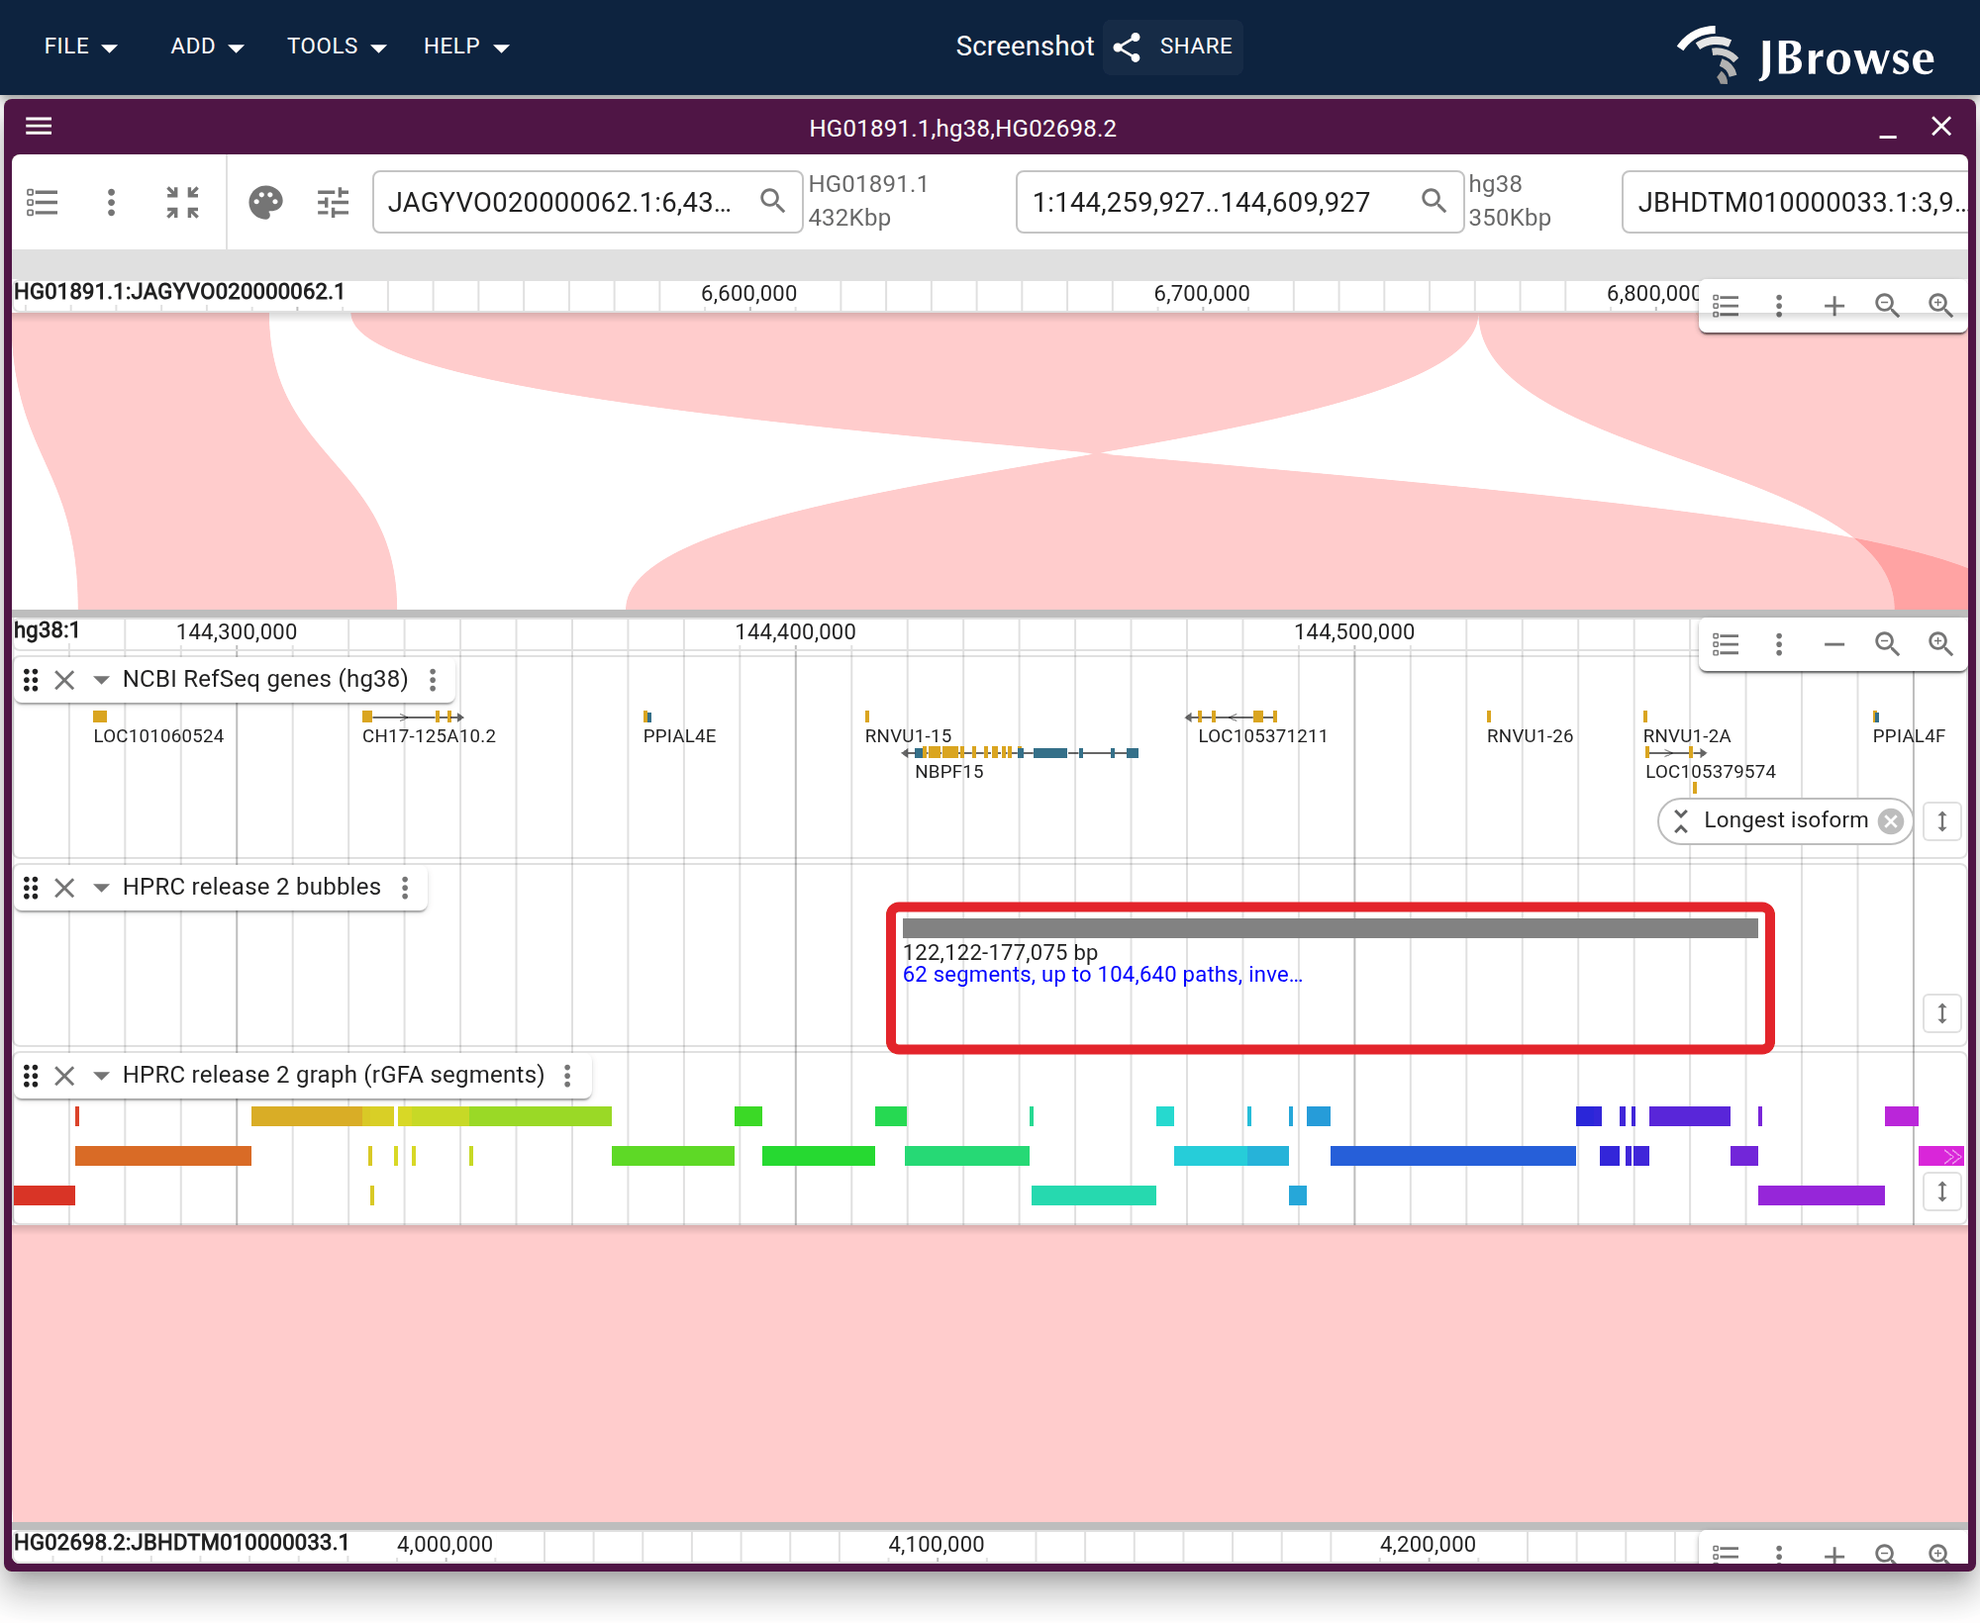
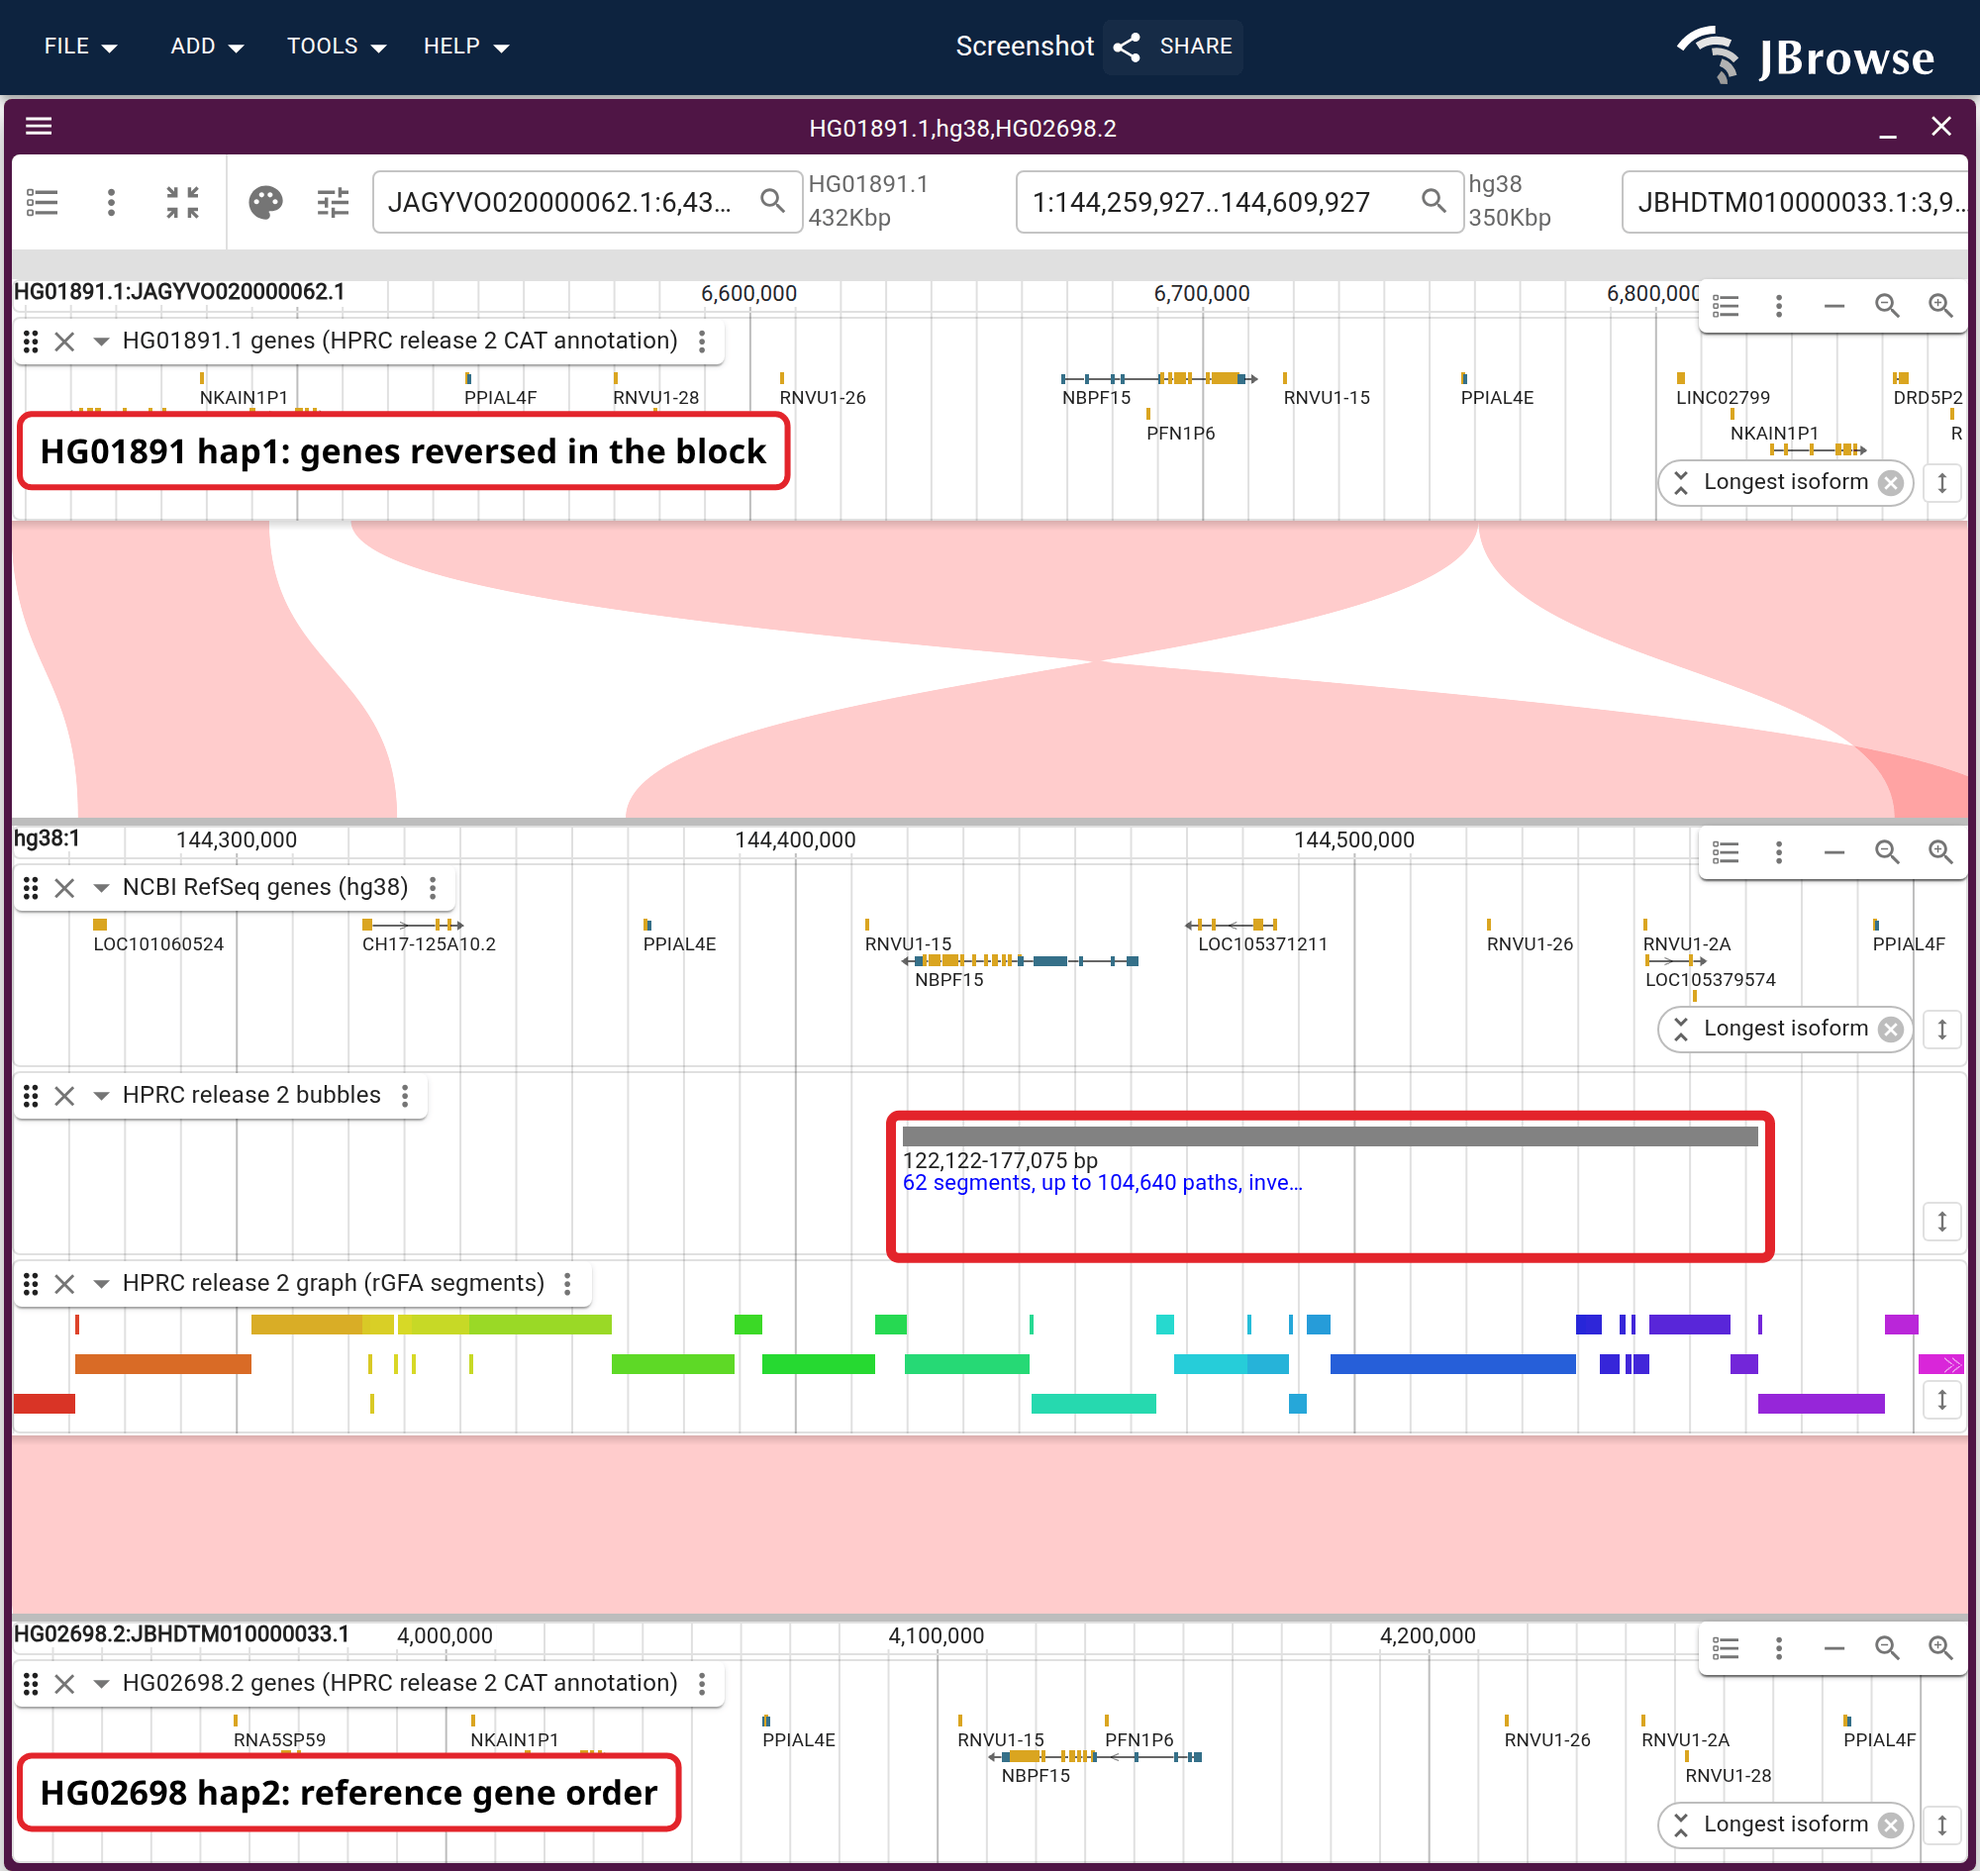
docs(hprc): give the inversion and CFHR figures their haplotype gene lanes
Both figures' third rows were flagged as boring in review ("this looks like it
matches the hg38 reference, so not interesting"). Both are the control the
figure's claim needs, and neither said so in the frame.

The inversion figure now carries each haplotype's own CAT annotation, sliced by
build_hprc_inversion_synteny.sh the way the CFHR build already did, minus the
loci CAT names by Ensembl gene id (29 of 45 here, all the same width and colour,
packing the lane three deep). Inside the flagged bubble the carrier's named
genes run PPIAL4F..PPIAL4E and the non-carrier's run the reference's order, so
the frame now separates an inversion from a contig deposited backwards — which
is the distinction the build script's flank test exists to make.

The CFHR figure keeps its non-carrier for the same reason (CFHR3/CFHR1
annotated there are what make their absence a deletion rather than a hole in one
assembly's annotation) and spends 40px less on its flat ribbon band.

Claude-Session: https://claude.ai/code/session_015YyNaRBzEzrDFgSu9gt3Yi

diff --git a/website/scripts/specs/graph.ts b/website/scripts/specs/graph.ts
@@ -548,6 +548,17 @@ const INV_CARRIER = 'HG01891.1'
 const INV_CARRIER_TRACK = 'hprc_inv_synteny_HG01891_1'
 const INV_NONCARRIER = 'HG02698.2'
 const INV_NONCARRIER_TRACK = 'hprc_inv_synteny_HG02698_2'
+// Each haplotype's own CAT annotation, which is what makes the non-carrier row
+// worth its height (review: "the third sample ... looks like it matches the hg38
+// reference so not interesting, can consider deleting third row"). With gene
+// lanes on both, the crossing ribbon is no longer the only thing said twice: the
+// named genes inside the block run PPIAL4F, RNVU1-28, RNVU1-2A, RNVU1-26,
+// NBPF15, RNVU1-15, PPIAL4E down the carrier and PPIAL4E, RNVU1-15, NBPF15,
+// RNVU1-26, RNVU1-2A, RNVU1-28, PPIAL4F down the non-carrier, i.e. reference
+// order on one row and reversed on the other. That is the reading a crossing
+// ribbon alone cannot separate from a contig deposited backwards.
+const INV_CARRIER_GENES = 'hprc_inv_genes_HG01891_1'
+const INV_NONCARRIER_GENES = 'hprc_inv_genes_HG02698_2'
 // Each row's own window: the span its in-frame records cover on that haplotype.
 const INV_CARRIER_WINDOW = 'JAGYVO020000062.1:6,437,000-6,868,942'
 const INV_NONCARRIER_WINDOW = 'JBHDTM010000033.1:3,912,000-4,309,991'
@@ -713,10 +724,11 @@ function hprcSegmentsLane(domain: { start: number; end: number }) {
 }
 
 // A haplotype row's own genes: HPRC's CAT annotation of that assembly, sliced to
-// the window by scripts/build_hprc_cfhr_synteny.sh. Same glyph settings as the
-// hg38 lane between them, so the three rows are read the same way and the
-// missing genes are missing rather than differently drawn.
-function cfhrGeneLane(trackId: string) {
+// the window by scripts/build_hprc_cfhr_synteny.sh and
+// scripts/build_hprc_inversion_synteny.sh. Same glyph settings as the hg38 lane
+// between them, so the three rows are read the same way and the missing genes
+// are missing rather than differently drawn.
+function haplotypeGeneLane(trackId: string) {
   return {
     trackId,
     type: 'LinearBasicDisplay',
@@ -2318,13 +2330,21 @@ export const graphSpecs: ScreenshotSpec[] = [
           // then against hg38, which is the comparison.
           tracks: [[CFHR_CARRIER_TRACK], [CFHR_NONCARRIER_TRACK]],
           drawCurves: true,
-          levelHeights: [110, 110],
+          // The carrier's band is where the event is — a ribbon that stops and
+          // resumes around the highlighted span — and the non-carrier's is one
+          // ribbon straight through it, which needs less height to be read
+          // (review: "the third row just looks like normal non interesting
+          // alignment"). It is the row's GENE LANE that earns its keep, not its
+          // ribbon: CFHR3 and CFHR1 annotated there are what make their absence
+          // from the carrier a deletion rather than a gap in CAT's annotation of
+          // one assembly.
+          levelHeights: [110, 70],
           collapseEmptyRows: true,
           views: [
             {
               assembly: CFHR_CARRIER,
               loc: CFHR_CARRIER_WINDOW,
-              tracks: [cfhrGeneLane(CFHR_CARRIER_GENES)],
+              tracks: [haplotypeGeneLane(CFHR_CARRIER_GENES)],
             },
             {
               assembly: 'hg38',
@@ -2351,7 +2371,7 @@ export const graphSpecs: ScreenshotSpec[] = [
             {
               assembly: CFHR_NONCARRIER,
               loc: CFHR_NONCARRIER_WINDOW,
-              tracks: [cfhrGeneLane(CFHR_NONCARRIER_GENES)],
+              tracks: [haplotypeGeneLane(CFHR_NONCARRIER_GENES)],
             },
           ],
         },
@@ -2379,7 +2399,7 @@ export const graphSpecs: ScreenshotSpec[] = [
     viewportWidth: 1000,
     // 1580 while the graph half was FMMM, whose drawing is squarer than 11 rows
     // of backbone: the anchored pane came out 238 px shorter
-    viewportHeight: 1342,
+    viewportHeight: 1302,
     hideTooltip: true,
     // What the reader is looking at, named on the rows themselves (review: "can
     // red boxes and text annotation be added"). The box wraps the two genes the
@@ -2442,6 +2462,17 @@ export const graphSpecs: ScreenshotSpec[] = [
   // ribbon crosses inside it while its flanking ribbons run parallel, which is
   // the whole figure.
   //
+  // BOTH HAPLOTYPE ROWS CARRY THEIR OWN CAT GENES, and that is what keeps the
+  // non-carrier row (review: "this looks like it matches the hg38 reference so
+  // not interesting, can consider deleting third row"). It does match, and that
+  // is its job: a lone crossing ribbon is equally what an assembly whose contig
+  // was deposited in the opposite orientation draws, which is why the build
+  // script tests the flanks rather than the block. The gene lanes put that test
+  // in the frame — inside the boxed bubble the carrier's named genes run
+  // PPIAL4F, RNVU1-28, RNVU1-2A, RNVU1-26, NBPF15, RNVU1-15, PPIAL4E and the
+  // non-carrier's run the reference's order, PPIAL4E through PPIAL4F. Delete the
+  // third row and the figure has a crossing with nothing to compare it against.
+  //
   // `cigarMode: 'off'` because the one thing this figure means by a crossing is
   // an inversion. HPRC's PAF carries a CIGAR per record, and at 400 kb a record
   // the default 'full' mode paints each large indel in it as a wedge pinching to
@@ -2458,10 +2489,19 @@ export const graphSpecs: ScreenshotSpec[] = [
           tracks: [[INV_CARRIER_TRACK], [INV_NONCARRIER_TRACK]],
           drawCurves: true,
           cigarMode: 'off',
-          levelHeights: [150, 150],
+          // The crossing band keeps its height; the non-carrier's does not need
+          // it. A band's job here is to be followed across, and the lower one is
+          // a single parallel ribbon — 150 px of it was the "third row is
+          // boring" half of the review, and the answer is to spend that height
+          // on the gene lane under it instead of on the ribbon.
+          levelHeights: [150, 90],
           collapseEmptyRows: true,
           views: [
-            { assembly: INV_CARRIER, loc: INV_CARRIER_WINDOW, tracks: [] },
+            {
+              assembly: INV_CARRIER,
+              loc: INV_CARRIER_WINDOW,
+              tracks: [haplotypeGeneLane(INV_CARRIER_GENES)],
+            },
             {
               assembly: 'hg38',
               loc: INV_WINDOW,
@@ -2489,7 +2529,7 @@ export const graphSpecs: ScreenshotSpec[] = [
             {
               assembly: INV_NONCARRIER,
               loc: INV_NONCARRIER_WINDOW,
-              tracks: [],
+              tracks: [haplotypeGeneLane(INV_NONCARRIER_GENES)],
             },
           ],
         },
@@ -2503,13 +2543,15 @@ export const graphSpecs: ScreenshotSpec[] = [
     settleMs: 8000,
     viewportWidth: 1000,
     // the two ribbon bands, the three lanes between them and the bottom row's
-    // ruler; 900 left 79 px of blank under it, per the run's own report
-    viewportHeight: 820,
+    // ruler, plus a gene lane on each haplotype row and 60 px off the lower band
+    viewportHeight: 945,
     hideTooltip: true,
-    // Only the box. The haplotype rows carry no track of their own to anchor a
-    // label to (the CFHR figure's labels hang off its per-haplotype gene lanes),
-    // and the view chrome already names each row's assembly at its left edge, so
-    // a callout would restate it.
+    // The flagged bubble, and what each haplotype's own genes do inside it. The
+    // row labels hang off the gene lanes the rows now carry, the same way the
+    // CFHR figure's do, and they say the thing the ribbons cannot: a crossing
+    // ribbon on its own is also what a contig deposited backwards draws, and it
+    // is gene order agreeing with the reference on one row and running backwards
+    // on the other that separates the two.
     annotations: [
       {
         type: 'box',
@@ -2518,6 +2560,34 @@ export const graphSpecs: ScreenshotSpec[] = [
           track: 'hprc_minigraph_bubbles',
           locus: INV_BLOCK_LOCUS,
         },
+      },
+      {
+        type: 'text',
+        fontSize: 17,
+        maxWidth: 520,
+        anchor: {
+          view: [0, 0],
+          track: INV_CARRIER_GENES,
+          locus: windowStart(INV_CARRIER_WINDOW),
+          fracY: 1,
+          dx: 14,
+          dy: -24,
+        },
+        text: 'HG01891 hap1: genes reversed in the block',
+      },
+      {
+        type: 'text',
+        fontSize: 17,
+        maxWidth: 520,
+        anchor: {
+          view: [0, 2],
+          track: INV_NONCARRIER_GENES,
+          locus: windowStart(INV_NONCARRIER_WINDOW),
+          fracY: 1,
+          dx: 14,
+          dy: -24,
+        },
+        text: 'HG02698 hap2: reference gene order',
       },
     ],
   },

diff --git a/website/docs/tutorials/pangenome_hprc.md b/website/docs/tutorials/pangenome_hprc.md
@@ -7,6 +7,11 @@ guide_category: Tutorials
 tutorial_category: Synteny & comparative genomics
 ---
 
+**TL;DR:** HPRC release 2's `sv.gfa` is an rGFA, so its segments carry
+coordinates and the graph opens by locus from two small tabix indexes rather
+than the 842 MB file. Its `wave.vcf.gz` ships an index too, so 464 haplotypes
+draw as a genotype matrix straight off S3.
+
 [HPRC release 2](https://doi.org/10.64898/2026.07.21.739710) is roughly a
 fivefold expansion over release 1. This tutorial opens two of its products: the
 pangenome graph drawn as a graph, and the variant callset (464 haplotypes as a
@@ -213,7 +218,7 @@ segments. Where each one attaches comes from the
 the bubble lane and the [allele inventory](#the-allele-inventory) give their
 lengths.
 
-Two things control whether that picture is readable, and neither is obvious.
+Two settings control whether that picture is readable.
 
 **Bubble spread**, in the graph's settings menu, sets a floor on how long a node
 is drawn. The force engine comes from Bandage, whose graphs are assembled
@@ -599,7 +604,12 @@ inverted paralogs somewhere nearby: each of those crosses on screen exactly the
 way the inversion does, so the script keeps only haplotypes whose alignments
 inside the drawn window are the inversion and its two forward flanks.
 
-<Figure caption="The 1q21.1 bubble the graph flags as an inversion, drawn as alignments. Between the two haplotype rows are the RefSeq genes, the bubble lane cut to inversion-flagged bubbles with the boxed one the subject, and the rGFA segments. The top row is HG01891 hap 1: its ribbon crosses inside the boxed span and runs parallel either side of it. The bottom row is HG02698 hap 2, one forward ribbon across the whole window." src="/img/pangenome/hprc_inversion.png" />
+Each haplotype row carries its own CAT gene annotation, which states the same
+event a second way: the named genes inside the boxed span run PPIAL4F, RNVU1-28,
+RNVU1-2A, RNVU1-26, NBPF15, RNVU1-15, PPIAL4E down the carrier and PPIAL4E
+through PPIAL4F — the reference's order — down the non-carrier.
+
+<Figure caption="The 1q21.1 bubble the graph flags as an inversion, drawn as alignments. Between the two haplotype rows are the RefSeq genes, the bubble lane cut to inversion-flagged bubbles with the boxed one the subject, and the rGFA segments. The top row is HG01891 hap 1: its ribbon crosses inside the boxed span, runs parallel either side of it, and its own genes run backwards through it. The bottom row is HG02698 hap 2, one forward ribbon and reference gene order across the whole window — the comparison that separates an inversion from a contig deposited backwards." src="/img/pangenome/hprc_inversion.png" />
 
 The [allele inventory](#the-allele-inventory) has nothing for them by
 construction, since a mixed-orientation pair of backbone segments is a
